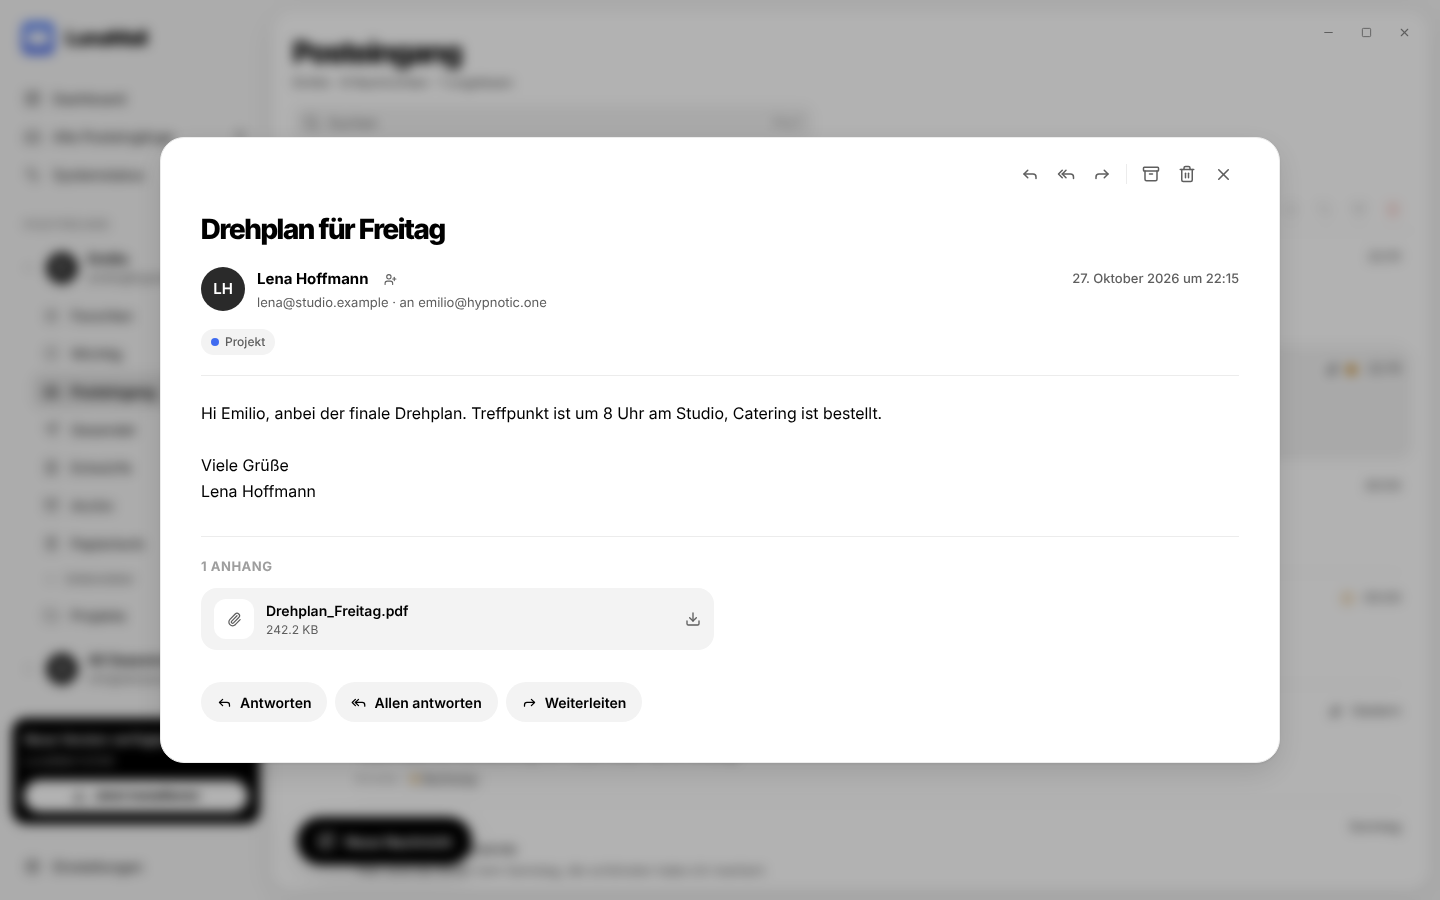
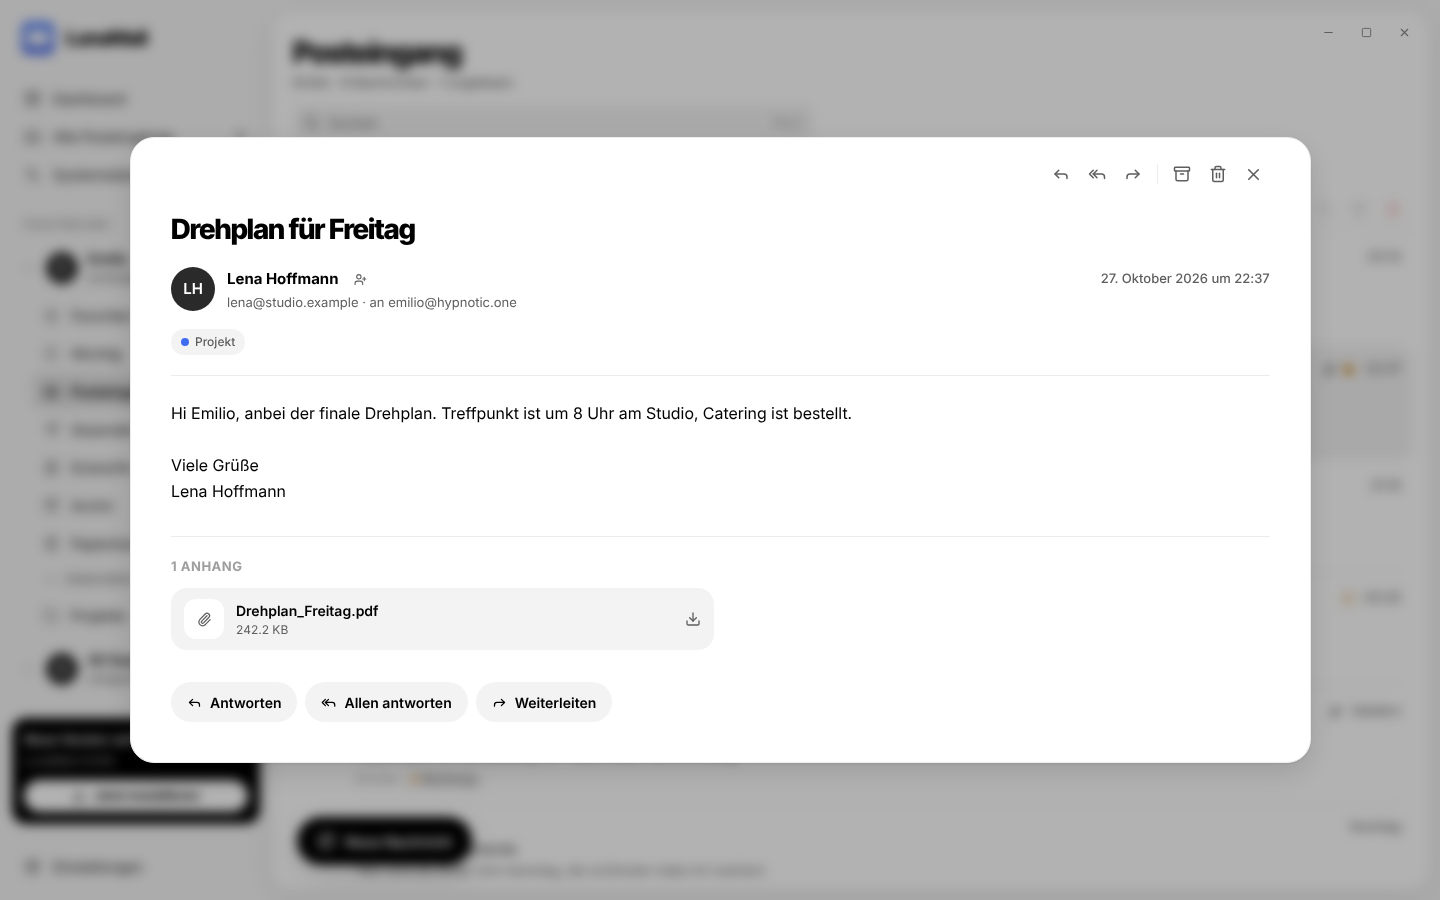
Desktop: Suchfeld-Fokus, Animation beim Löschen/Archivieren, externe Bilder laden, größeres Modal
Claude-Session: https://claude.ai/code/session_015oPpCaztH1SDtHgZpMPuwL

Changed region(s): [[0.0625, 0.1556, 0.625, 0.8711], [0.75, 0.1556, 0.9375, 0.8711], [0.1562, 0.7778, 0.4375, 0.8089]]

diff --git a/src/components/MailList.tsx b/src/components/MailList.tsx
@@ -54,7 +54,9 @@ export function MailList() {
   const [tagPickerOpen, setTagPickerOpen] = useState(false);
   const [selectedTagIds, setSelectedTagIds] = useState<number[]>([]);
   const selectedIdSet = useMemo(() => new Set(selectedEmailIds), [selectedEmailIds]);
-  const visibleEmails = useMemo(() => emails.slice(0, visibleCount), [emails, visibleCount]);
+  const leavingKey = [query, selectedCategoryId, JSON.stringify(searchFilters)].join("|");
+  const { rows: listRows, leavingIds } = useLeavingRows(emails, leavingKey);
+  const visibleEmails = useMemo(() => listRows.slice(0, visibleCount + leavingIds.size), [listRows, visibleCount, leavingIds]);
   const accountById = useMemo(() => new Map(accounts.map((account) => [account.id, account])), [accounts]);
   const selectedCount = selectedEmailIds.length;
   const allSelected = emails.length > 0 && emails.every((email) => selectedIdSet.has(email.id));
@@ -112,7 +114,7 @@ export function MailList() {
       {showsMailList ? (
         <>
           <div className="shrink-0 px-1 pb-2">
-            <label className="flex h-9 max-w-[520px] items-center gap-2 rounded-[10px] bg-surface px-2.5 text-label-2 transition focus-within:bg-surface-2">
+            <label className="search-field flex h-9 max-w-[520px] items-center gap-2 rounded-[10px] bg-surface px-2.5 text-label-2 transition focus-within:bg-surface-2 focus-within:ring-2 focus-within:ring-ink/15">
               <Search size={17} />
               <input
                 id="mail-search-input"
@@ -223,6 +225,7 @@ export function MailList() {
                 permanentlyDeletes={permanentlyDeletes}
                 showsRecipient={showsRecipient}
                 enterIndex={index < 15 ? index : 0}
+                leaving={leavingIds.has(email.id)}
                 onSelect={selectEmail}
                 onToggleSelection={toggleEmailSelection}
                 onQuickAction={quickAction}
@@ -325,7 +328,7 @@ function ToolbarButton({ label, icon, onClick, disabled = false, danger = false 
 }
 
 const MailRow = memo(function MailRow({
-  email, active, selected, anySelected, accountLabel, accountColor, permanentlyDeletes, showsRecipient, enterIndex,
+  email, active, selected, anySelected, accountLabel, accountColor, permanentlyDeletes, showsRecipient, enterIndex, leaving,
   onSelect, onToggleSelection, onQuickAction
 }: {
   email: Email;
@@ -337,6 +340,7 @@ const MailRow = memo(function MailRow({
   permanentlyDeletes: boolean;
   showsRecipient: boolean;
   enterIndex: number;
+  leaving: boolean;
   onSelect: (email: Email) => Promise<void>;
   onToggleSelection: (id: number, selected: boolean) => void;
   onQuickAction: (emailId: number, action: "delete" | "favorite" | "important" | "read" | "archive") => Promise<void>;
@@ -357,11 +361,13 @@ const MailRow = memo(function MailRow({
       role="button"
       tabIndex={0}
       className={cn(
-        "mail-row mail-row-enter group relative flex w-full cursor-pointer items-start gap-3 rounded-2xl px-3 py-3 text-left transition-colors duration-150",
+        "mail-row group relative flex w-full cursor-pointer items-start gap-3 rounded-2xl px-3 py-3 text-left transition-colors duration-150",
         "after:pointer-events-none after:absolute after:bottom-0 after:left-[68px] after:right-3 after:h-px after:bg-line",
+        leaving ? "mail-row-leave" : "mail-row-enter",
         active ? "bg-surface after:opacity-0" : selected ? "bg-ink/[0.05] after:opacity-0" : "hover:bg-ink/[0.03] hover:after:opacity-0"
       )}
       style={{ "--i": enterIndex } as CSSProperties}
+      aria-hidden={leaving || undefined}
       onClick={() => void onSelect(email)}
       onKeyDown={openFromKeyboard}
     >
@@ -445,6 +451,40 @@ function QuickButton({ label, children, onClick, active = false, danger = false 
       {children}
     </button>
   );
+}
+
+type Ghost = { email: Email; index: number };
+
+/**
+ * Hält gerade entfernte Mails (gelöscht, archiviert, verschoben) kurz in der Liste,
+ * damit sie sichtbar herausgleiten statt zu verschwinden. Wechselt die Suche oder der
+ * Filter, wird nichts animiert.
+ */
+function useLeavingRows(emails: Email[], key: string) {
+  const [tracked, setTracked] = useState<{ emails: Email[]; key: string; ghosts: Ghost[] }>({ emails, key, ghosts: [] });
+  if (tracked.emails !== emails || tracked.key !== key) {
+    let ghosts: Ghost[] = [];
+    if (tracked.key === key) {
+      const nextIds = new Set(emails.map((email) => email.id));
+      const previousIds = new Set(tracked.emails.map((email) => email.id));
+      const removed = tracked.emails.flatMap((email, index) => (nextIds.has(email.id) ? [] : [{ email, index }]));
+      const added = emails.some((email) => !previousIds.has(email.id));
+      if (removed.length > 0 && removed.length <= 50 && !added) ghosts = removed;
+    }
+    setTracked({ emails, key, ghosts });
+  }
+
+  useEffect(() => {
+    if (tracked.ghosts.length === 0) return;
+    const timer = window.setTimeout(() => setTracked((current) => ({ ...current, ghosts: [] })), 280);
+    return () => window.clearTimeout(timer);
+  }, [tracked.ghosts]);
+
+  return useMemo(() => {
+    const rows = [...tracked.emails];
+    for (const ghost of tracked.ghosts) rows.splice(Math.min(ghost.index, rows.length), 0, ghost.email);
+    return { rows, leavingIds: new Set(tracked.ghosts.map((ghost) => ghost.email.id)) };
+  }, [tracked]);
 }
 
 function MailListSkeleton() {

diff --git a/src/components/MailReader.tsx b/src/components/MailReader.tsx
@@ -13,7 +13,7 @@ const MAX_HTML_LENGTH = 150_000;
 const SAFE_LINK_SCHEME = /^(https:|mailto:|tel:)/i;
 
 export function MailReader() {
-  const { selectedEmail: currentEmail, settings, contacts, closeEmail, replyToSelected, forwardSelected, archiveSelected, deleteSelected, saveContact } = useMailStore(useShallow((state) => ({
+  const { selectedEmail: currentEmail, settings, contacts, closeEmail, replyToSelected, forwardSelected, archiveSelected, deleteSelected, saveContact, updateSettings } = useMailStore(useShallow((state) => ({
     selectedEmail: state.selectedEmail,
     settings: state.settings,
     contacts: state.contacts,
@@ -22,7 +22,8 @@ export function MailReader() {
     forwardSelected: state.forwardSelected,
     archiveSelected: state.archiveSelected,
     deleteSelected: state.deleteSelected,
-    saveContact: state.saveContact
+    saveContact: state.saveContact,
+    updateSettings: state.updateSettings
   })));
   // Beim Schließen bleibt die Mail kurz stehen, damit das Modal sichtbar ausblenden kann.
   const [shownEmail, setShownEmail] = useState(currentEmail);
@@ -37,10 +38,13 @@ export function MailReader() {
   const selectedEmail = currentEmail ?? shownEmail;
   const closing = !currentEmail;
 
+  // Externe Bilder nur nach ausdrücklichem Klick, und dann nur für diese eine Mail.
+  const [imagesAllowedFor, setImagesAllowedFor] = useState<number>();
+  const imagesAllowed = settings.externalImages === "always" || (selectedEmail !== undefined && imagesAllowedFor === selectedEmail.id);
   const htmlView = useMemo(() => {
     if (!selectedEmail?.bodyHtml || selectedEmail.bodyHtml.length > MAX_HTML_LENGTH) return undefined;
-    return sanitizeEmailHtml(selectedEmail.bodyHtml, settings.externalImages === "always");
-  }, [selectedEmail?.bodyHtml, settings.externalImages]);
+    return sanitizeEmailHtml(selectedEmail.bodyHtml, imagesAllowed);
+  }, [selectedEmail?.bodyHtml, imagesAllowed]);
 
 
   if (!selectedEmail) return null;
@@ -68,7 +72,7 @@ export function MailReader() {
         role="dialog"
         aria-modal="true"
         aria-label={selectedEmail.subject || "E-Mail"}
-        className="mail-reader-panel mail-scroll max-h-full w-[min(1120px,100%)] overflow-y-auto rounded-3xl border border-line bg-canvas shadow-float"
+        className="mail-reader-panel mail-scroll max-h-full w-[min(1600px,max(1120px,82vw),100%)] overflow-y-auto rounded-3xl border border-line bg-canvas shadow-float"
         onClick={(event) => event.stopPropagation()}
       >
         <article className="w-full px-6 pb-10 pt-4 lg:px-10">
@@ -126,11 +130,21 @@ export function MailReader() {
               <Notice>Sehr große HTML-Mail wird aus Performance-Gründen als Text angezeigt.</Notice>
             ) : null}
             {htmlView?.blockedRemoteImages ? (
-              <Notice>{htmlView.blockedRemoteImages} externe Bilder wurden blockiert.</Notice>
+              <div className="mb-5 flex flex-wrap items-center gap-3 rounded-2xl bg-surface px-4 py-3 text-[13px] font-medium text-label-2">
+                <span className="min-w-0 flex-1">
+                  {htmlView.blockedRemoteImages === 1 ? "1 externes Bild wurde" : `${htmlView.blockedRemoteImages} externe Bilder wurden`} zum Schutz vor Tracking blockiert.
+                </span>
+                <button className="pressable rounded-full bg-ink px-3.5 py-1.5 text-[13px] font-bold text-canvas hover:opacity-90" onClick={() => setImagesAllowedFor(selectedEmail.id)}>
+                  Bilder laden
+                </button>
+                <button className="pressable rounded-full px-3 py-1.5 text-[13px] font-semibold text-ink hover:bg-surface-2" onClick={() => void updateSettings({ ...settings, externalImages: "always" })}>
+                  Immer laden
+                </button>
+              </div>
             ) : null}
             {htmlView?.document ? (
               <iframe
-                className="h-[min(68vh,720px)] w-full rounded-2xl border border-line bg-white"
+                className="h-[max(420px,calc(100vh-330px))] w-full rounded-2xl border border-line bg-white"
                 sandbox="allow-popups allow-popups-to-escape-sandbox"
                 srcDoc={htmlView.document}
                 title={`E-Mail: ${selectedEmail.subject || "Ohne Betreff"}`}

diff --git a/scripts/screenshots/mock-bridge.js b/scripts/screenshots/mock-bridge.js
@@ -24,7 +24,7 @@
     bodyText: `${preview}\n\nViele Grüße\n${sender.replace(/<.*>/, "").trim()}`,
     receivedAt: ago(minutes), isRead: false, isFavorite: false, isImportant: false, hasAttachments: false, attachments: [], tags: [], ...extra
   });
-  const emails = [
+  let emails = [
     mail(101, "Hypnotic One <support@hypnotic.one>", "Dein Postfach ist eingerichtet", "Willkommen bei Hypnotic One. Deine Zugangsdaten für IMAP und SMTP findest du in dieser Nachricht.", 12),
     mail(102, "Lena Hoffmann <lena@studio.example>", "Drehplan für Freitag", "Hi Emilio, anbei der finale Drehplan. Treffpunkt ist um 8 Uhr am Studio, Catering ist bestellt.", 48, { hasAttachments: true, attachments: [{ id: 1, fileName: "Drehplan_Freitag.pdf", contentType: "application/pdf", size: 248_000 }], tags: [tags[0]], isFavorite: true }),
     mail(103, "GitHub <noreply@github.com>", "[LunaMail] Release android-latest veröffentlicht", "Ein neuer Build der Android-App steht zum Download bereit.", 130, { isRead: true }),
@@ -61,7 +61,9 @@
     get_health_status: () => health,
     get_mail_counts: () => counts,
     get_drafts: () => [],
-    get_emails: () => emails,
+    get_emails: () => emails.slice(),
+    move_email: ({ id }) => { emails = emails.filter((email) => email.id !== id); },
+    delete_email: ({ id }) => { emails = emails.filter((email) => email.id !== id); },
     search_emails: () => emails,
     get_email: ({ id }) => emails.find((email) => email.id === id),
     hydrate_email: ({ id }) => emails.find((email) => email.id === id),

diff --git a/src/styles.css b/src/styles.css
@@ -251,6 +251,33 @@ select:focus-visible,
   color: rgb(var(--danger));
 }
 
+.mail-row-leave {
+  pointer-events: none;
+  overflow: hidden;
+  animation: mail-row-leave 260ms cubic-bezier(0.4, 0, 0.2, 1) forwards;
+}
+
+@keyframes mail-row-leave {
+  0% {
+    opacity: 1;
+    transform: translateX(0);
+    max-height: 180px;
+  }
+  55% {
+    opacity: 0;
+    transform: translateX(-36px);
+    max-height: 180px;
+  }
+  100% {
+    opacity: 0;
+    transform: translateX(-36px);
+    max-height: 0;
+    margin-top: 0;
+    padding-top: 0;
+    padding-bottom: 0;
+  }
+}
+
 @keyframes mail-row-enter {
   from {
     opacity: 0;
@@ -364,6 +391,11 @@ select:focus-visible,
     opacity: 1;
     transform: scale(1);
   }
+}
+
+/* Das Suchfeld zeigt den Fokus am ganzen abgerundeten Feld, nicht am inneren Eingabefeld. */
+.search-field input:focus-visible {
+  outline: none;
 }
 
 .titlebar-drag {
